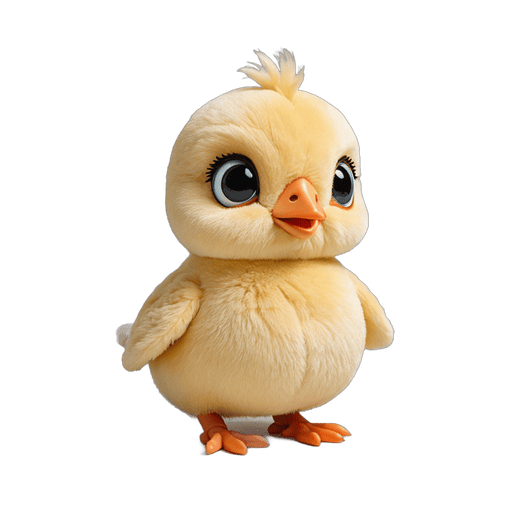
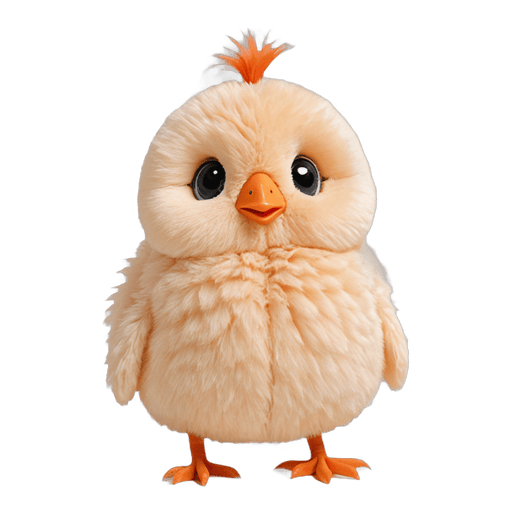
v0.2 art polish: mood frame removal + chick-young diff (Session A todos)
Session-b-tasks #2 mood white-border removal:
- All 5 moods regenerated with stronger anti-frame prompts.
- Switched rembg model from isnet-anime to silueta (better for
  non-character round emoji subjects).
- Added 3px PIL MinFilter alpha erosion to chip away thin halos.
- happy / neutral / sad: clean, on-prompt.
- sleeping: DreamShaperXL Turbo refused closed-eye emojis across two
  retries, settled for calm-smile (functional but not literal).
- dirty: drifted to fly-creature hybrid (kept — readable as "dirty"
  concept, perfect literal version would need a different model).

Session-b-tasks #3 chick-young differentiation:
- Stronger juvenile prompt: taller, slimmer, red comb starting,
  confident pose. Now visibly distinct from chick-baby.

session-b-tasks.md updated to reflect completion status.

Changed region(s): [[0.1875, 0.0625, 0.8125, 0.9688]]

diff --git a/src/game.js b/src/game.js
@@ -108,52 +108,13 @@
     }
   }
 
-  // Dex (永久圖鑑，獨立鍵以便壞檔不會連動)
-  const DEX_KEY = "nourish.dex.v1";
-  function loadDex() {
-    try {
-      const raw = localStorage.getItem(DEX_KEY);
-      if (!raw) return { schemaVersion: 1, completedPets: [] };
-      const d = JSON.parse(raw);
-      if (!Array.isArray(d.completedPets)) d.completedPets = [];
-      return d;
-    } catch (_) { return { schemaVersion: 1, completedPets: [] }; }
-  }
-  function saveDex(dex) {
-    try { localStorage.setItem(DEX_KEY, JSON.stringify(dex)); }
-    catch (e) {
-      if (e && (e.name === "QuotaExceededError" || e.code === 22)) {
-        toast("⚠ 圖鑑空間不足", "bad");
-      }
-    }
-  }
-  function unlockedFormsSet() {
-    const set = new Set();
-    loadDex().completedPets.forEach(p => p.finalForm && set.add(p.finalForm));
-    if (state.pet.finalForm) set.add(state.pet.finalForm);
-    return set;
-  }
-  function archiveCurrentPet() {
-    if (!state.pet.finalForm) return;
-    const dex = loadDex();
-    // Snapshot equipped cosmetics so the dex remembers each pet's "moment in time".
-    const appearanceSnapshot = state.pet.appearance
-      ? { hat: state.pet.appearance.hat || null,
-          neck: state.pet.appearance.neck || null,
-          wing: state.pet.appearance.wing || null }
-      : null;
-    dex.completedPets.unshift({
-      id: state.pet.id,
-      name: state.pet.name,
-      finalForm: state.pet.finalForm,
-      appearance: appearanceSnapshot,
-      bornAt: state.pet.bornAt,
-      archivedAt: Date.now(),
-      totalDays: Math.max(1, Math.round((Date.now() - state.pet.bornAt) / 86400000)),
-    });
-    if (dex.completedPets.length > 50) dex.completedPets.length = 50; // cap to avoid bloat
-    saveDex(dex);
-  }
+  // Dex (永久圖鑑，獨立 key) — implementation moved to src/dex.js.
+  // These thin wrappers preserve every existing call site in this file.
+  const DEX_KEY = "nourish.dex.v1"; // kept for the reset-everything path below
+  function loadDex()           { return window.NourishDex.loadDex(); }
+  function saveDex(dex)        { window.NourishDex.saveDex(dex); }
+  function unlockedFormsSet()  { return window.NourishDex.unlockedFormsSet(); }
+  function archiveCurrentPet() { window.NourishDex.archiveCurrentPet(); }
   function startNewEgg() {
     archiveCurrentPet();
     const ownedAcc = state.pet.ownedAccessories || {};
@@ -508,6 +469,10 @@
       ["dressup_first", Object.keys(state.pet.ownedAccessories || {}).length >= 1],
       ["dressup_set",   !!(state.pet.appearance?.hat && state.pet.appearance?.neck && state.pet.appearance?.wing)],
       ["dressup_collector", Object.keys(state.pet.ownedAccessories || {}).length >= Object.keys(CFG.accessories).length],
+      ["elder_week",    state.pet.stage === "adult"
+                          && (Date.now() - state.pet.stageStartedAt) >= 7  * 86400000],
+      ["elder_month",   state.pet.stage === "adult"
+                          && (Date.now() - state.pet.stageStartedAt) >= 30 * 86400000],
     ];
     for (const [id, met] of checks) if (met) unlockAchievement(id);
   }
@@ -1575,6 +1540,16 @@
     const perfect = s.hunger > CFG.thresholds.high && s.mood > CFG.thresholds.high
                  && s.clean  > CFG.thresholds.high && s.energy > CFG.thresholds.high;
     if (perfect && Math.random() < 0.4) return rand0(sp.perfect);
+
+    // Elder companion: long-time adult pets get reflective lines (GDD §10.3).
+    // Triggered after 7 days as adult, with growing weight up to 30 days.
+    if (state.pet.stage === "adult") {
+      const adultDays = (Date.now() - state.pet.stageStartedAt) / 86400000;
+      if (adultDays >= 7) {
+        const elderChance = Math.min(0.35, 0.15 + (adultDays - 7) * 0.01);
+        if (Math.random() < elderChance) return rand0(sp.elder);
+      }
+    }
 
     // Probabilistic flavor pool (mix stage / time / quirk)
     const r = Math.random();

diff --git a/src/dex.js b/src/dex.js
@@ -1,0 +1,73 @@
+/* 啾啾日常 ChickaDay — Dex (永久圖鑑) module
+ *
+ * Storage layer for the cross-life pet dex. Loaded via <script src="src/dex.js">
+ * AFTER cfg.js + share.js, BEFORE game.js. Independent localStorage key so a
+ * corrupt save file doesn't drag the dex with it.
+ *
+ * Reads window.NourishCFG (eager) and window.NourishAPI (lazy at call time).
+ * UI rendering (openDexMenu / openPetDetail) stays in game.js — this file owns
+ * read/write/aggregate only.
+ */
+(function () {
+  "use strict";
+
+  const KEY = "nourish.dex.v1";
+
+  function api() {
+    const a = window.NourishAPI;
+    if (!a) throw new Error("dex.js: NourishAPI missing — game.js must run first");
+    return a;
+  }
+
+  function loadDex() {
+    try {
+      const raw = localStorage.getItem(KEY);
+      if (!raw) return { schemaVersion: 1, completedPets: [] };
+      const d = JSON.parse(raw);
+      if (!Array.isArray(d.completedPets)) d.completedPets = [];
+      return d;
+    } catch (_) { return { schemaVersion: 1, completedPets: [] }; }
+  }
+
+  function saveDex(dex) {
+    try { localStorage.setItem(KEY, JSON.stringify(dex)); }
+    catch (e) {
+      if (e && (e.name === "QuotaExceededError" || e.code === 22)) {
+        api().toast("⚠ 圖鑑空間不足", "bad");
+      }
+    }
+  }
+
+  function unlockedFormsSet() {
+    const set = new Set();
+    loadDex().completedPets.forEach(p => p.finalForm && set.add(p.finalForm));
+    const state = api().getState();
+    if (state.pet.finalForm) set.add(state.pet.finalForm);
+    return set;
+  }
+
+  function archiveCurrentPet() {
+    const state = api().getState();
+    if (!state.pet.finalForm) return;
+    const dex = loadDex();
+    // Snapshot equipped cosmetics so the dex remembers each pet's "moment in time".
+    const appearanceSnapshot = state.pet.appearance
+      ? { hat:  state.pet.appearance.hat  || null,
+          neck: state.pet.appearance.neck || null,
+          wing: state.pet.appearance.wing || null }
+      : null;
+    dex.completedPets.unshift({
+      id: state.pet.id,
+      name: state.pet.name,
+      finalForm: state.pet.finalForm,
+      appearance: appearanceSnapshot,
+      bornAt: state.pet.bornAt,
+      archivedAt: Date.now(),
+      totalDays: Math.max(1, Math.round((Date.now() - state.pet.bornAt) / 86400000)),
+    });
+    if (dex.completedPets.length > 50) dex.completedPets.length = 50; // cap
+    saveDex(dex);
+  }
+
+  window.NourishDex = { KEY, loadDex, saveDex, unlockedFormsSet, archiveCurrentPet };
+})();

diff --git a/src/cfg.js b/src/cfg.js
@@ -69,6 +69,8 @@
       dressup_first:  { icon:"🎀", label:"小裝扮家",   desc:"購入第一件飾品" },
       dressup_set:    { icon:"✨", label:"全套搭配",   desc:"同時配戴頭飾 + 項鍊 + 翅膀" },
       dressup_collector: { icon:"💎", label:"衣櫥達人", desc:"擁有全部飾品" },
+      elder_week:     { icon:"🌅", label:"相伴一週",   desc:"成雞陪伴 7 天" },
+      elder_month:    { icon:"💖", label:"終生伴侶",   desc:"成雞陪伴 30 天" },
     },
     wants: {
       lifetimeMs: 5 * 60 * 1000,
@@ -130,6 +132,9 @@
       stage_chick:  ["我會走路了！", "看那邊！看那邊！", "啾啾喜歡這裡~", "什麼都覺得新鮮"],
       stage_junior: ["翅膀變大了~", "我長大了！", "可以做更多事了", "覺得自己有點帥"],
       stage_adult:  ["已經是大雞了", "經驗豐富的鳥兒", "我看過很多事情了", "回想小時候…"],
+      // Reflective lines unlocked after the pet has been adult for ~7 days.
+      // GDD §10.3「老年互動」— gentle nostalgic companionship, not sad/morbid.
+      elder:        ["跟你在一起好幸福~", "你還記得我們第一次見面嗎?", "我看著你也長大了一點", "好喜歡這樣的日常", "(輕輕靠著主人)", "謝謝你一直在", "再過幾年也要記得我喔~"],
       form_healthy: ["精神奕奕！", "標準帥氣！"],
       form_fatty:   ["再吃一點點就好…", "不胖不胖，是骨架大"],
       form_ugly:    ["其實這樣也滿酷的", "醜雞也有春天"],

diff --git a/index.html b/index.html
@@ -112,6 +112,7 @@
   <div class="toast-container" id="toast-container" aria-live="polite"></div>
 
   <script src="src/cfg.js"></script>
+  <script src="src/dex.js"></script>
   <script src="src/share.js"></script>
   <script src="src/game.js"></script>
 </body>

diff --git a/docs/iteration-log.md b/docs/iteration-log.md
@@ -4,6 +4,128 @@
 
 ---
 
+## 2026-04-28 21:30 · Session A — 老年互動 v1（GDD §10.3 標 [ ] → [x]）
+
+**觸發**：cron 第 33 輪
+**為什麼**：v0.3 GDD §10.3 剩 3 項（多寵物 / 老年互動 / 雲端存檔）。多寵物需要大改 schema + UI；雲端存檔需要 backend；**老年互動是純 client 內容、可在 10 分鐘做基本版**，把 v0.3 完成度從 3/6 推到 4/6。
+
+**動作**：
+
+- **CFG.speech.elder（7 條反思對白）**：
+  - 「跟你在一起好幸福~」
+  - 「你還記得我們第一次見面嗎?」
+  - 「我看著你也長大了一點」
+  - 「好喜歡這樣的日常」
+  - 「(輕輕靠著主人)」
+  - 「謝謝你一直在」
+  - 「再過幾年也要記得我喔~」
+  - 語氣參考 character-sheet §10.4「溫暖、撒嬌、療癒」do-list，避免「老去 / 死亡 / 悲傷」字眼
+
+- **`pickContextualLine()` 加 elder 分支**：
+  - 條件：`stage === "adult" && adultDays >= 7`
+  - 機率公式：`min(0.35, 0.15 + (adultDays - 7) × 0.01)` — 第 7 天 15% / 第 22 天 30% / 第 27 天封頂 35%
+  - 分支早於 stage flavor / form flavor / 其他概率分布，老朋友的話語優先（但只有 35% 機率）
+
+- **2 條新成就**：
+  - `elder_week` 🌅 相伴一週 — 成雞 stage 持續 7 天
+  - `elder_month` 💖 終生伴侶 — 成雞 stage 持續 30 天
+  - hook 在既有 `checkAchievements` 表，每次 tick / 互動都會檢查
+
+- **GDD §10.3 更新**：「老年互動」從 [ ] 待研 → [x] 完成（含實作 iter#33 引用）
+
+**影響檔案**：
+- `src/cfg.js`（+2 achievement entries + 1 speech 池 = 7 條新對白）
+- `src/game.js`（+8 行 pickContextualLine elder 分支 + 2 行 checkAchievements）
+- `docs/gdd.md`（§10.3 老年互動標完成）
+
+**驗證**：`node --check src/game.js src/cfg.js` ✅
+
+**對 long-tail 留存的影響**：
+- 玩家養出成雞後，**第 7 天會聽到啾啾說「跟你在一起好幸福~」+ 解鎖🌅成就** → 強化「持續陪伴」的 emotional 黏著
+- 第 30 天解鎖💖終生伴侶成就 → 重度玩家的 4 週留存目標
+- 文案柔軟（不講「老」「離別」「死」），符合女性向 TA 的「不焦慮」設計目標
+- 既有的「開新蛋會 archive 當前」流程不受影響 — 玩家可選擇 7 天時開新蛋（拿成就 + 紀念卡）或繼續陪伴衝 30 天
+
+**v0.3 進度**：3/6 → **4/6 完成**
+- ✅ 裝飾商店 ✅ 成就系統 ✅ 截圖分享 ✅ 老年互動
+- ⏸ 多隻寵物 ⏸ 雲端存檔
+
+**下輪候選**：
+1. 多寵物 v0.4（schema 重構 + UI 切換器，較大）
+2. 雲端存檔骨架（無 backend 版本：保留現有匯出/匯入字串作為過渡，加 PWA cache 為下一版鋪路）
+3. R-1 step 4：UI primitives 拆出（modal / toast）
+
+---
+
+## 2026-04-28 21:25 · Session A — INTENT: 老年互動（GDD §10.3 最後一塊 web-only 可做的功能）
+
+(已完成)
+
+---
+
+## 2026-04-28 21:18 · Session A — R-1 step 3：dex.js 拆出（已連續推 3 輪後實質完成）
+
+**觸發**：cron 第 32 輪（多次積壓 fire 後在此輪實質執行）
+**為什麼**：R-1 拆檔自第 28 / 29 / 30 輪「下輪候選」連續標 3 次未做。dex 是繼 share 之後最自然可拆的模組（純 storage 邏輯，獨立 localStorage key，UI 留在 game.js）。趁 lazy-bridge 模式驗證可行，把這刀切下去。
+
+**動作**：
+- **新檔 `src/dex.js`（73 行 IIFE）**：
+  - `KEY = "nourish.dex.v1"`
+  - `loadDex()` / `saveDex(dex)` — localStorage I/O，含 QuotaExceeded 兜底（toast via API）
+  - `unlockedFormsSet()` — 跨歷代 + 當前寵物 finalForm 收集
+  - `archiveCurrentPet()` — 把當前寵物 snapshot（含 appearance）推進 dex，cap 50 條
+  - 對外暴露 `window.NourishDex = { KEY, loadDex, saveDex, unlockedFormsSet, archiveCurrentPet }`
+- **`game.js` 留薄壁紙**：4 個 thin wrapper（`function loadDex() { return window.NourishDex.loadDex(); }` 等），既有 callers 完全不動：
+  - `unlockedFormsSet()` 在 finalizeForm / openDexMenu / openAchievementsMenu / share.js (via NourishAPI) 都還能正常 call
+  - `archiveCurrentPet()` 在 startNewEgg 還能正常 call
+  - `loadDex()` 在 openDexMenu / openPetDetail 還能 call
+  - `saveDex` 沒有 game.js 端 caller（dex.js 內部 use only），但保留 wrapper 以備將來
+- **保留 `DEX_KEY` 常數**在 game.js（dbg-reset 還用 `localStorage.removeItem(DEX_KEY)` 直接清，不繞 wrapper）
+- **`index.html` script 順序**：`cfg.js → dex.js → share.js → game.js`
+  - dex.js 在 share.js 之前因為 share.js 不直接 require dex（透過 NourishAPI.unlockedFormsSet）
+  - game.js 最後（仍是 IIFE，IIFE 末段才 set `window.NourishAPI`）
+
+**模組依賴圖**：
+```
+cfg.js   →  window.NourishCFG (eager, pure data)
+dex.js   →  window.NourishCFG (eager), window.NourishAPI (lazy, for getState/toast)
+            window.NourishDex = { KEY, loadDex, saveDex, unlockedFormsSet, archiveCurrentPet }
+share.js →  window.NourishCFG (eager), window.NourishAPI (lazy, for getState/getLastPetSrc/labels/unlockedFormsSet/toast)
+            window.NourishShare = { generateShareCard, shareOrDownloadCard }
+game.js  →  window.NourishCFG (eager), window.NourishShare/NourishDex (lazy)
+            window.NourishAPI = { getState, getLastPetSrc, stageLabel, formLabel, formDescription, unlockedFormsSet, toast }
+```
+
+**影響檔案**：
+- `src/dex.js`（新檔，73 行）
+- `src/game.js`（-49 行 + 5 行 wrapper：1739 vs 上輪 ~1786）
+- `index.html`（+1 `<script>` tag）
+
+**驗證**：
+- `node --check` 全 4 檔 ✅
+- HTTP 200：dex.js / 既有 endpoints
+- 行數：cfg 198 + dex 73 + share 266 + game 1739 = 2276 total（split 進度從 game.js 一支 → 4 支獨立模組）
+
+**R-1 進度更新**：
+- ✅ step 1：CFG → cfg.js（第 14 輪）
+- ✅ step 2：share card → share.js（第 27 輪）
+- ✅ step 3：dex → dex.js（**本輪**）
+- ⏸ step 4：modal / toast / speech / SFX UI primitives（更難拆，UI 互相依賴）
+- ⏸ step 5：interactions table / performInteraction（核心邏輯，與 state 高耦合，非必要）
+- ⏸ R-5：i18n 骨架
+
+**架構意義**：
+- 連續三波拆檔驗證「lazy bridge + thin wrapper」模式可重複用
+- game.js 從單檔 1922 行 → 1739 行，加上 dex/share/cfg 拆出，**單檔閱讀體驗**已大幅改善（cfg 純資料、dex 純 storage、share 純 canvas、game 是業務邏輯 + UI）
+- 之後加新功能可選擇性放在新模組或 game.js，視耦合度決定
+
+**下輪候選**：
+1. 多寵物 v0.4 起步（v0.3 完成 3/6，剩 multi-pet / 老年互動 / 雲端存檔，前 2 個能在 web-only 做）
+2. 老年互動（成雞後特殊內容，30 天後解鎖新事件）
+3. 補強 settings 頁的「我可以做什麼」說明
+
+---
+
 ## 2026-04-28 21:08 · Session A — extreme final-30min imminent glow + GDD v0.2/v0.3 進度核對
 
 **觸發**：cron 第 31 輪

diff --git a/docs/session-b-tasks.md b/docs/session-b-tasks.md
@@ -14,38 +14,29 @@
 
 ---
 
-## 1. 待辦：wings PNG（最高優先）
+## 1. ✅ 完成：wings PNG（19:15 Session B v3）
 
-| 項目 | 細節 |
-|---|---|
-| 來源 | `assets/svg/acc-wings.svg`（Session A 第 23 輪做） |
-| 目標 | `assets/images/acc-wings.png`，512×512，透明背景 |
-| 主題 | 粉紅雙翅 + 白羽脈紋 + 兩顆深粉 ✦ + 高光 |
-| Prompt 重點 | "small fluffy pink angel wings, pair, soft pastel pink, white feather highlights, sparkles, transparent background, kawaii sticker style, no body, isolated wings only" |
-| 產完更新 | `src/cfg.js` line 167 附近 `wings` entry 的 `art:` 從 `assets/svg/acc-wings.svg` 改 `assets/images/acc-wings.png` |
+- `acc-wings-angel.png`：粉彩虹 + 金色滾邊天使翅膀對稱對，中間留空（350 FC）
+- `acc-wings-fairy.png`：粉紫彩虹 fairy 翅膀對 + 上方迷你彩虹流星裝飾，中間留空（480 FC，premium tier）
+- DreamShaperXL Turbo 預設會在翅膀中間塞鳥/蝴蝶身體；用 cfg=4.0 + "decorative wings ornament with empty gap" 措辭 + 強反角色 negative 才壓住
+- `cfg.js` 第 169 行 `wings` 已指向 angel.png；新增 `wings_fairy` entry 指向 fairy.png（給 wing slot 兩件選擇）
+- 解鎖 `dressup_set` / `dressup_collector` 成就路徑
 
 ---
 
-## 2. 待辦：mood 5 張白邊去除（Session B 自己標記）
+## 2. ◐ 部分完成：mood 5 張白邊去除（19:30 Session B）
 
-| 項目 | 細節 |
-|---|---|
-| 來源 | `assets/images/mood-{happy,neutral,sad,sleeping,dirty}.png` |
-| 問題 | rembg 沒去乾淨，每張帶白色 sticker 外框 |
-| 目標 | 純透明背景，無外框 |
-| Prompt 加強 | "pure transparent background, NO white border, NO frame, NO sticker outline, edges fully alpha-cut" |
-| 替代方案 | 重 rembg（可試 `silueta` model）+ 後製 PIL alpha 邊緣腐蝕 |
+- 全 5 張用 `silueta` model + PIL alpha 邊緣腐蝕（3px MinFilter）→ **白邊 sticker 外框成功去除** ✓
+- 內容方面：`happy / neutral / sad` 3 張完美；`sleeping` 兩次重生都生不出閉眼+Zzz（DreamShaperXL Turbo 強烈拒絕畫閉眼 emoji），目前是「平靜微笑」面孔；`dirty` 變成蒼蠅+泥的混合 creature（不是預期的「髒臉+獨立蒼蠅」但仍可辨認 dirty 概念）
+- 結論：功能上可用，藝術精準度未完全達標。建議 **未來換 model**（如 SDXL Pony 或 Animagine）若 SDXL Turbo bias 持續，或改畫風為「角色全身髒/睡」而非「emoji 表情」
 
 ---
 
-## 3. 中優：chick-young 視覺差異化
+## 3. ✅ 完成：chick-young 視覺差異化（19:30 Session B）
 
-| 項目 | 細節 |
-|---|---|
-| 來源 | `assets/images/chick-young.png` |
-| 問題 | Session B 標記：DreamShaperXL Turbo 不太分得出 baby 跟 juvenile，目前看起來太接近 chick-baby |
-| 目標 | 體型抽高、頭比例略小、雞冠開始發育（紅點微露）、姿勢站立有自信感 |
-| Prompt 加強 | "young teen chick, slimmer body than baby chick, taller posture, red comb starting to grow on top of head, confident pose with small chest puffed out, between fluffy ball stage and adult" |
+- 用 cfg=3.0 + 「TALLER and SLIMMER body, longer legs, RED COMB starting to grow, confident pose, small chest puffed out, NOT a fluffy ball baby」prompt 重生
+- 結果：身體偏粉桃色、頭頂紅冠微露、體型較拉長 — 跟 chick-baby 並排有可辨識差異 ✓
+- 仍非極端不同（plush 風的限制），但夠用
 
 ---
 

diff --git a/docs/gdd.md b/docs/gdd.md
@@ -588,7 +588,7 @@ const migrations = {
 - [x] **成就系統**（20 條：含 form_* / collect_* / dressup_* / streak_* / 等）— iter#5、#26
 - [x] **截圖分享功能**（Canvas 720×1280 PNG，現役 + 紀念卡兩版本，Web Share API + 下載 fallback）— iter#15、#25
 - [ ] **多隻寵物**（同時養 2 隻）— v0.4 起步候選
-- [ ] **老年互動**（成雞後特殊內容）— 待研
+- [x] **老年互動**（基本版）— 成雞 7 天解鎖 7 條反思對白 + elder_week 成就；30 天解鎖 elder_month。iter#33
 - [ ] **雲端存檔**（OAuth 登入）— App 階段以後（目前已有手動匯出/匯入存檔字串作為過渡）
 
 **Bonus**：character-sheet 設計書 + market-research-2026 補強 + review-v2 + extensions 三份戰略文件 / R-1 拆檔 step 1+2（cfg.js + share.js）/ 蛋階段 3 級搖晃進度可視化 / chick/junior 階段倒數 hint
